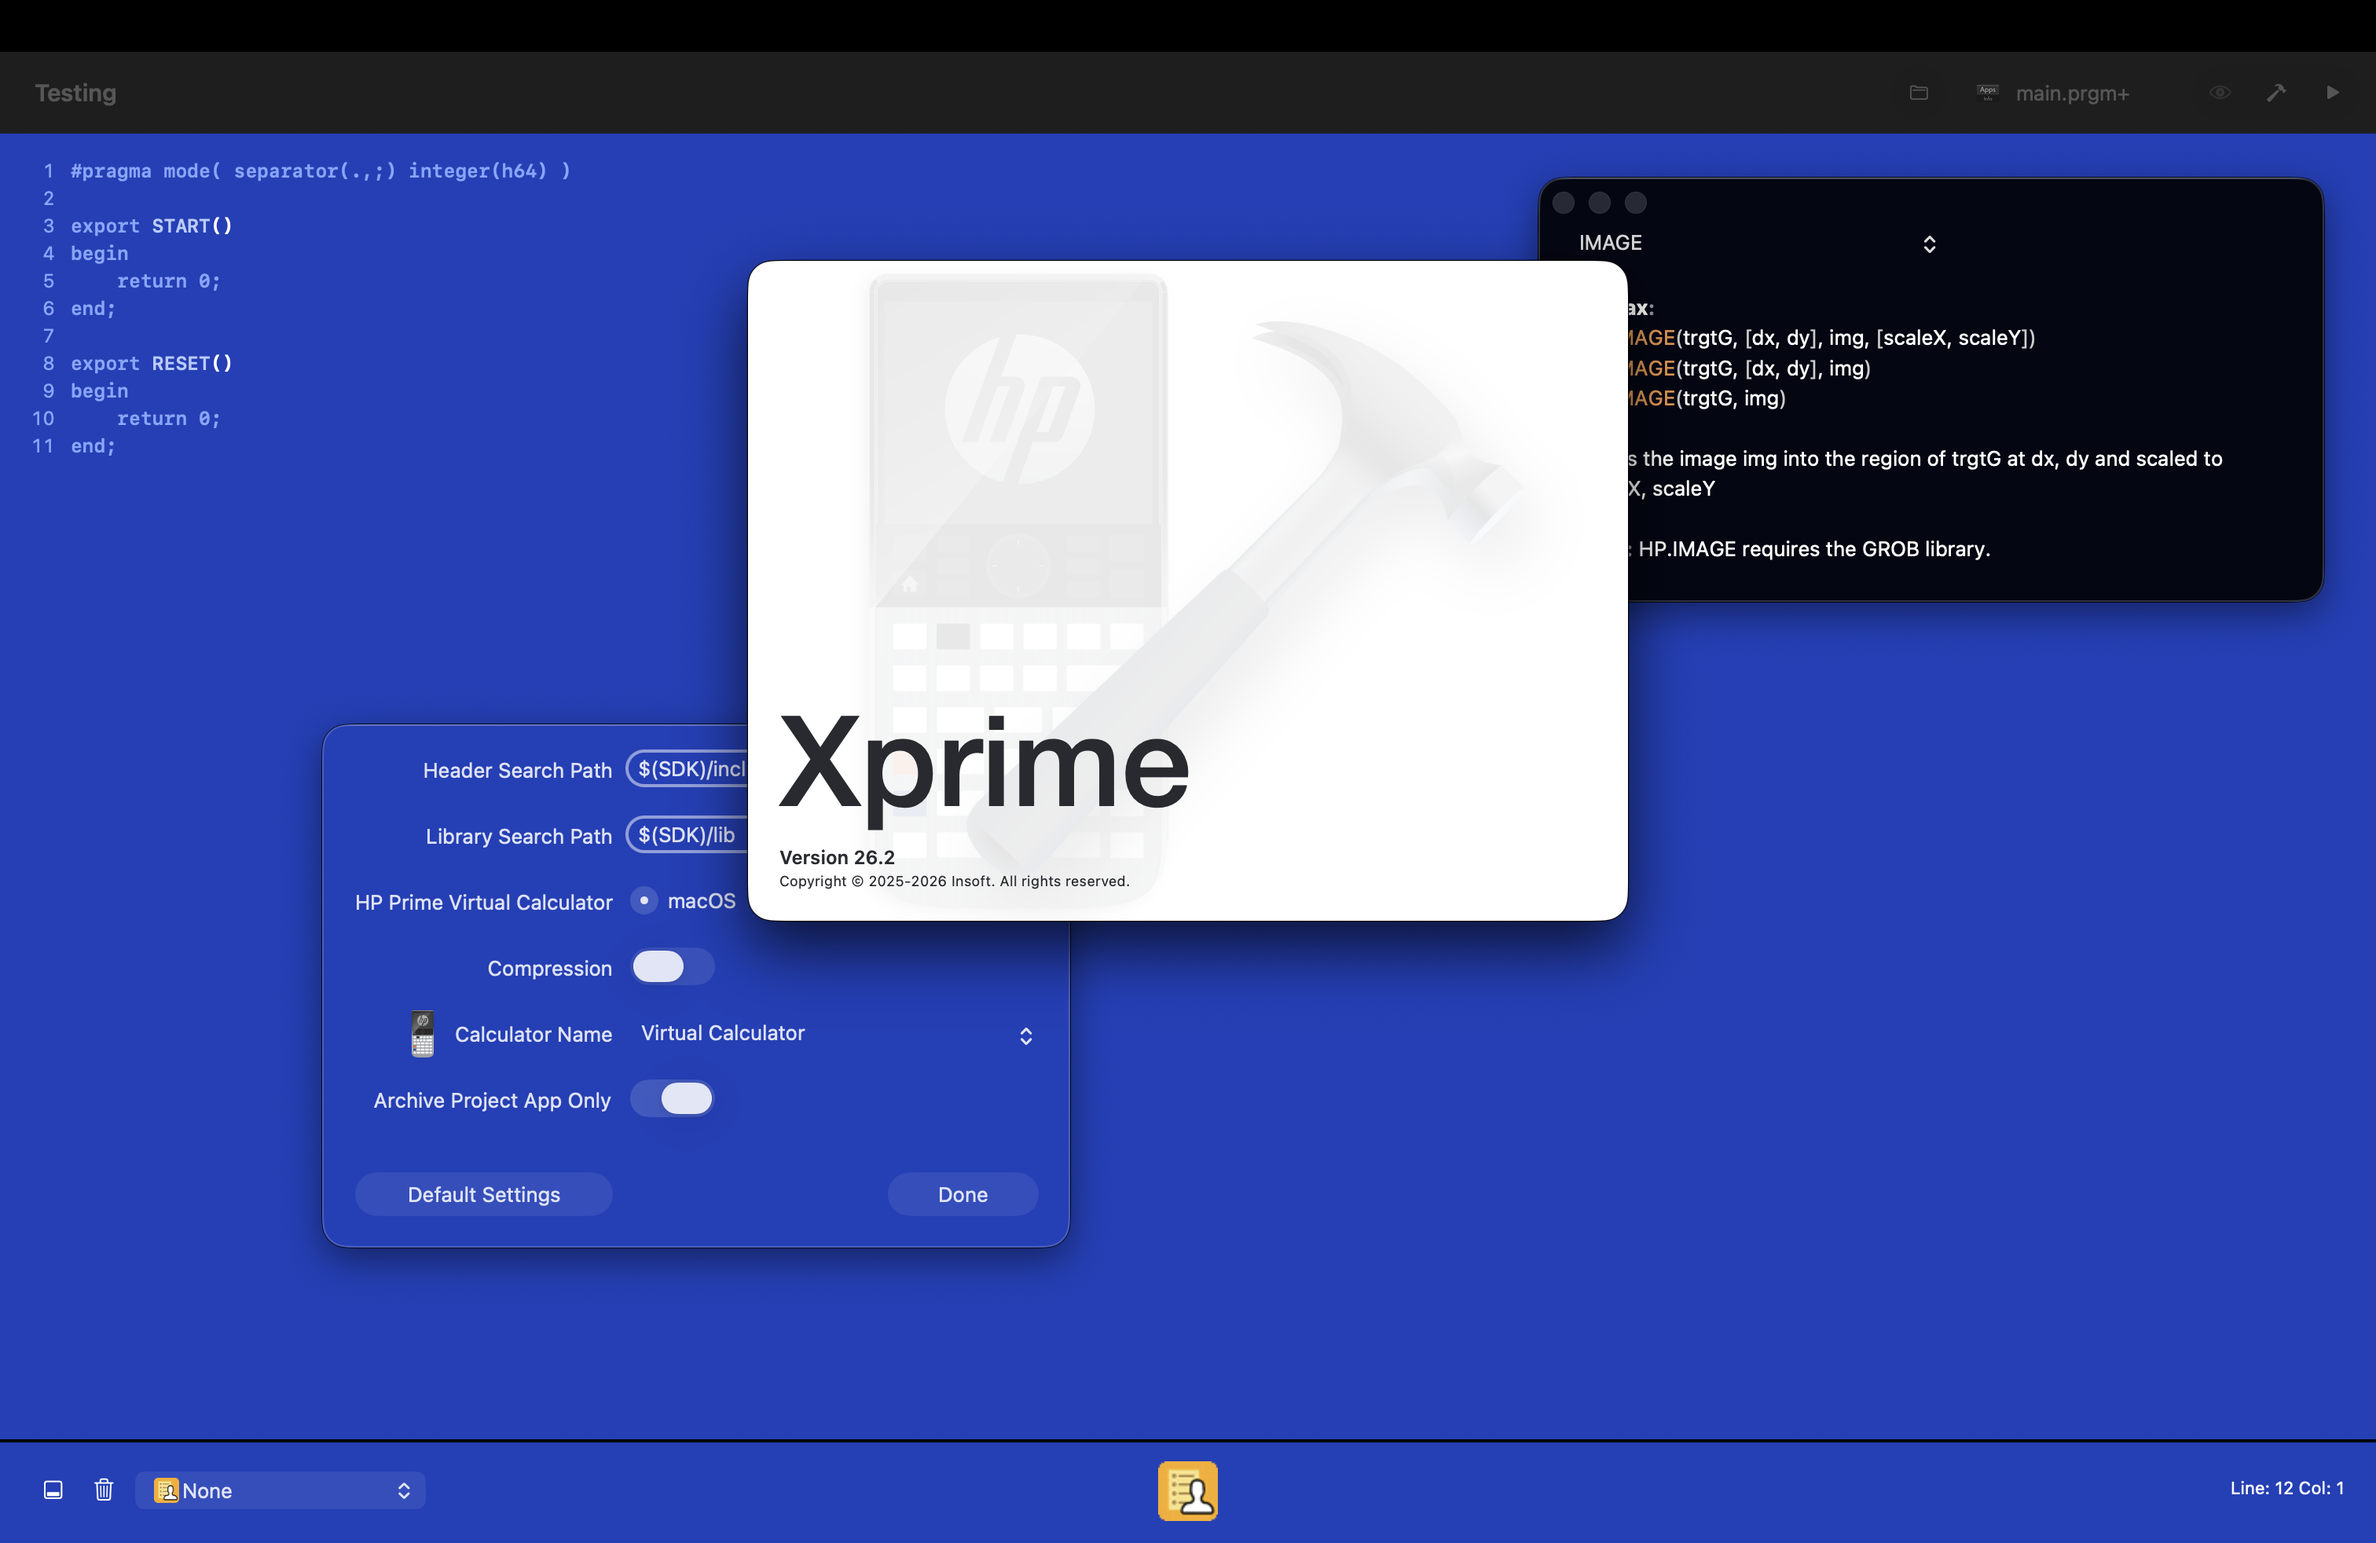
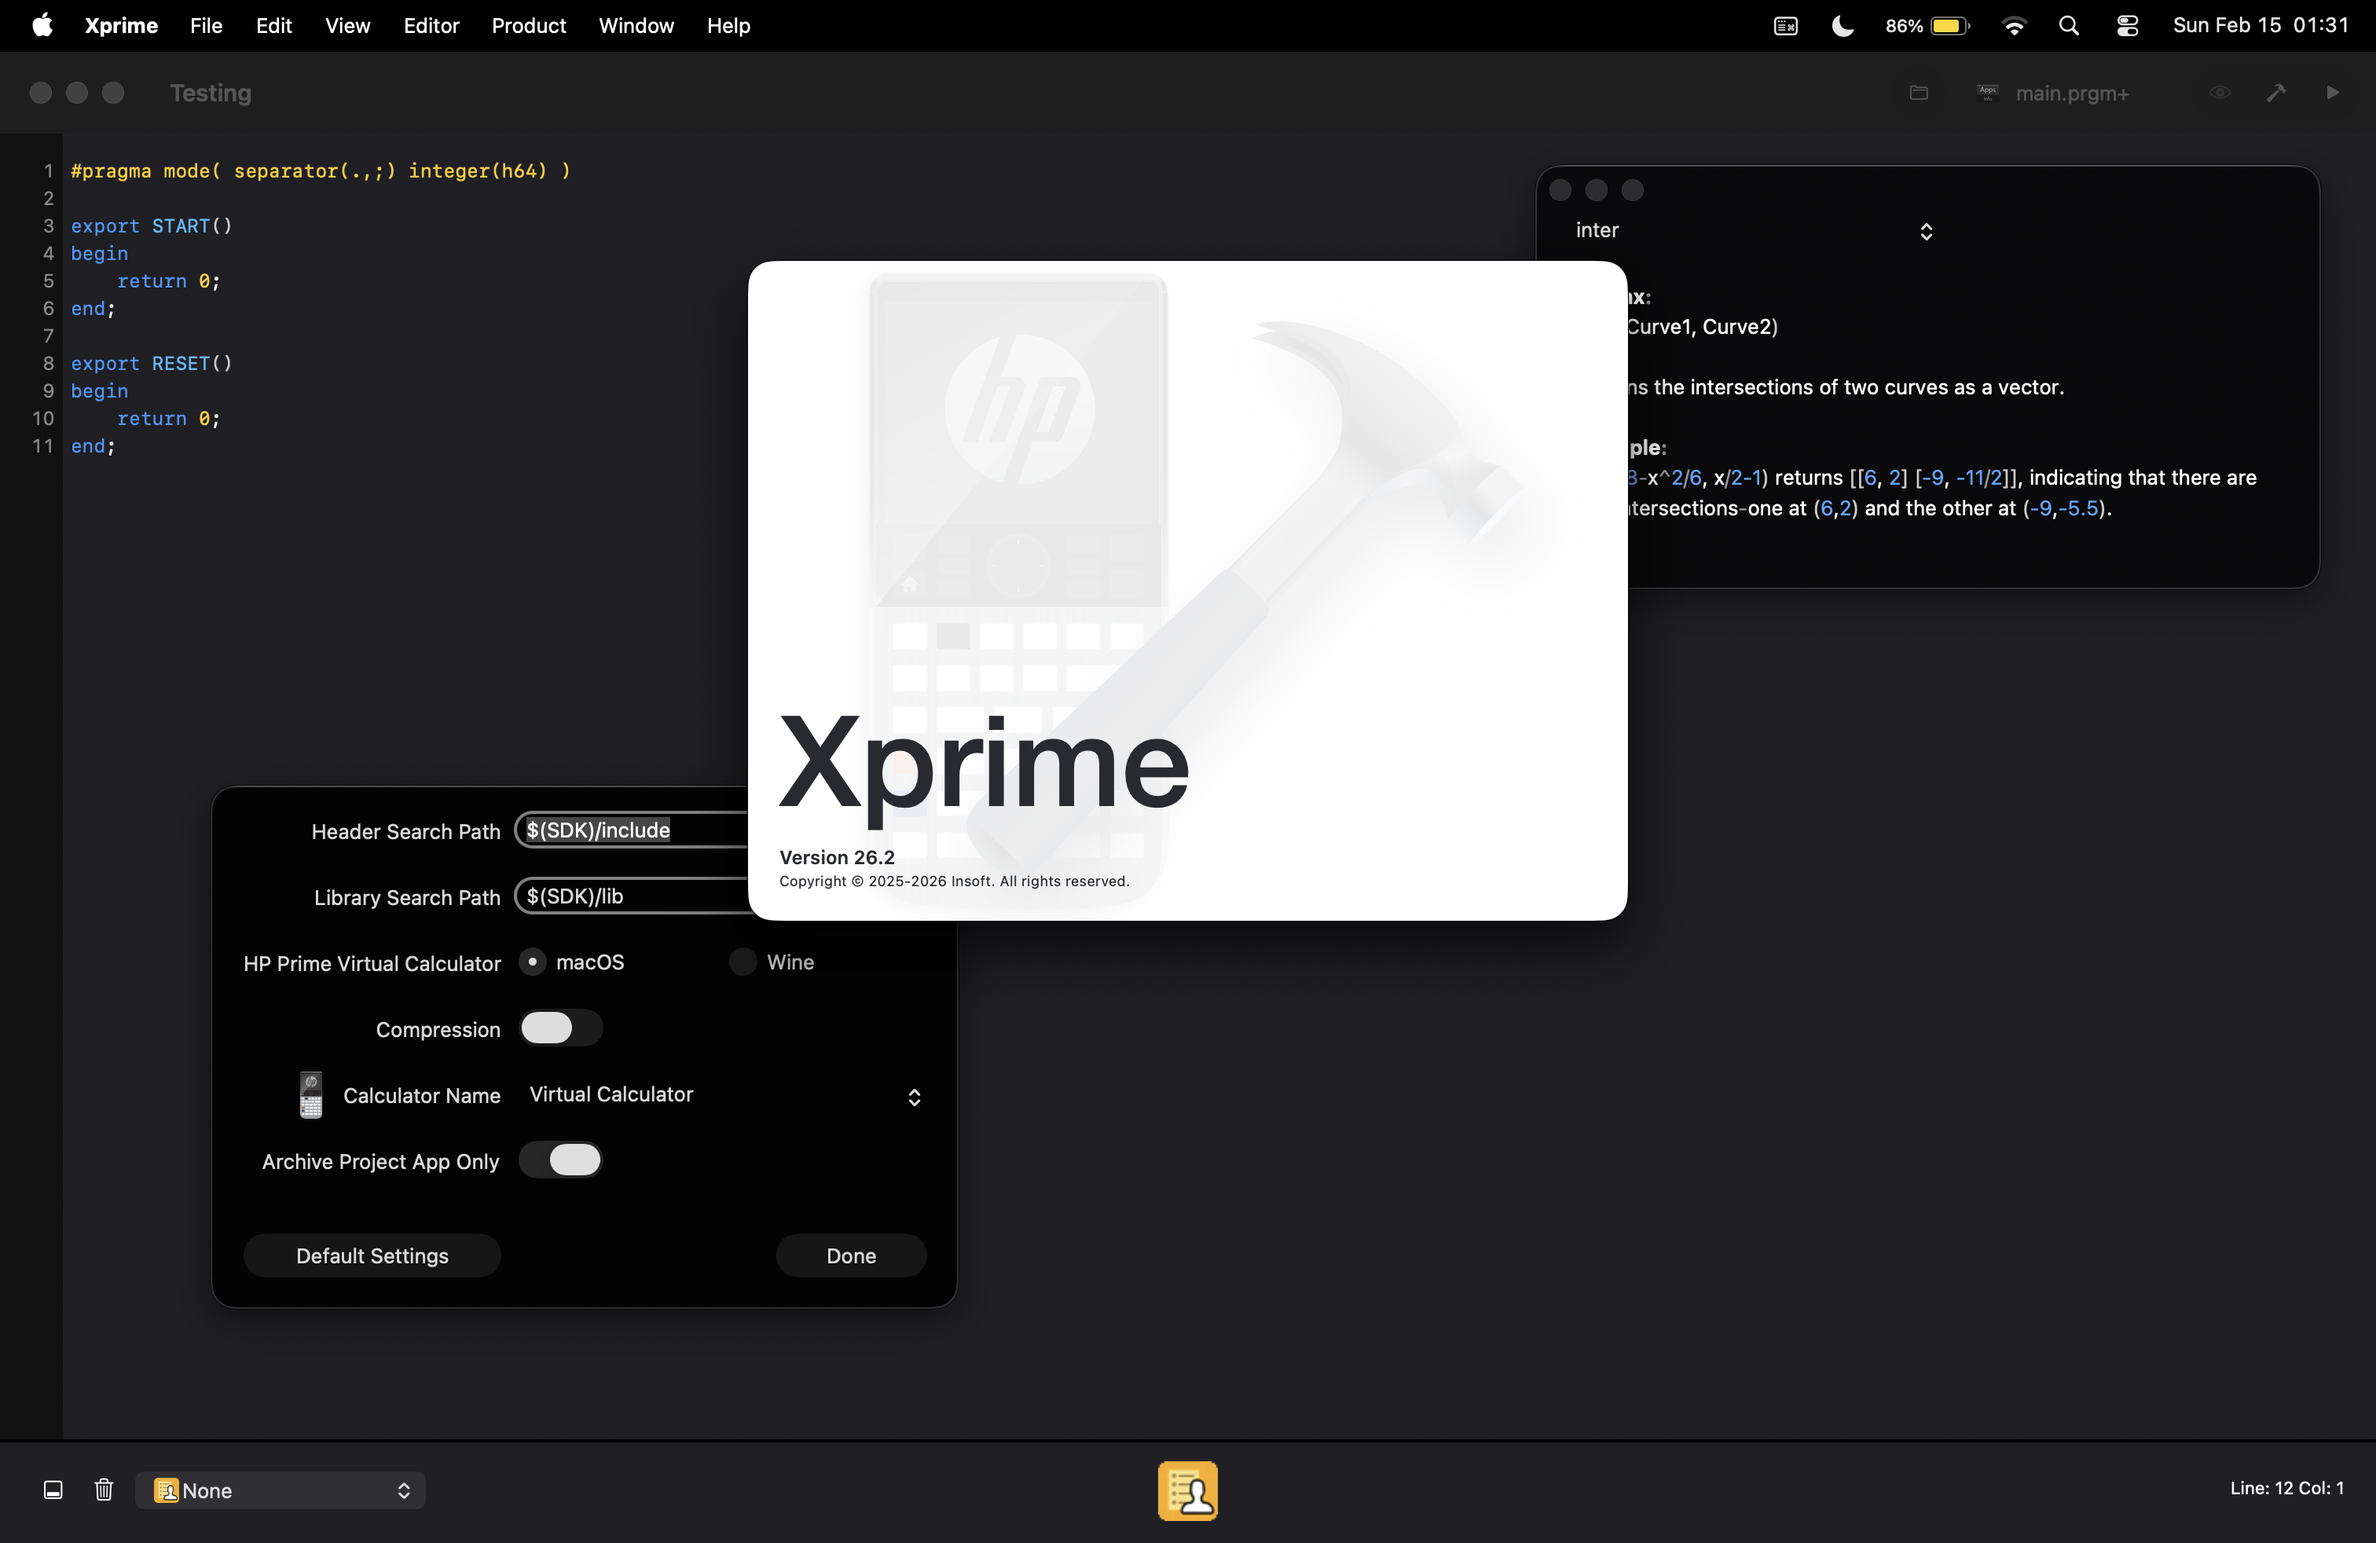
Update

diff --git a/Xcode/Xprime/Features/Catalog/Views/CatalogViewController.swift b/Xcode/Xprime/Features/Catalog/Views/CatalogViewController.swift
@@ -50,7 +50,7 @@ final class CatalogViewController: NSViewController, NSComboBoxDelegate, NSTextF
         
         // Make window background transparent
         window.isOpaque = false
-        window.backgroundColor = NSColor(white: 0, alpha: 0.9)
+        window.backgroundColor = NSColor(white: 0, alpha: 0.70)
         
         // Optional: remove title bar / standard window decorations
         window.titleVisibility = .hidden
@@ -58,8 +58,10 @@ final class CatalogViewController: NSViewController, NSComboBoxDelegate, NSTextF
         window.styleMask = [.closable, .titled]
         window.styleMask.insert(.fullSizeContentView)
         window.hasShadow = true
+        window.level = .floating
     }
 
+    
     
     private func loadHelp(for command: String) {
         guard let txtURL = Bundle.main.url(forResource: command, withExtension: "txt", subdirectory: "Help") else {
